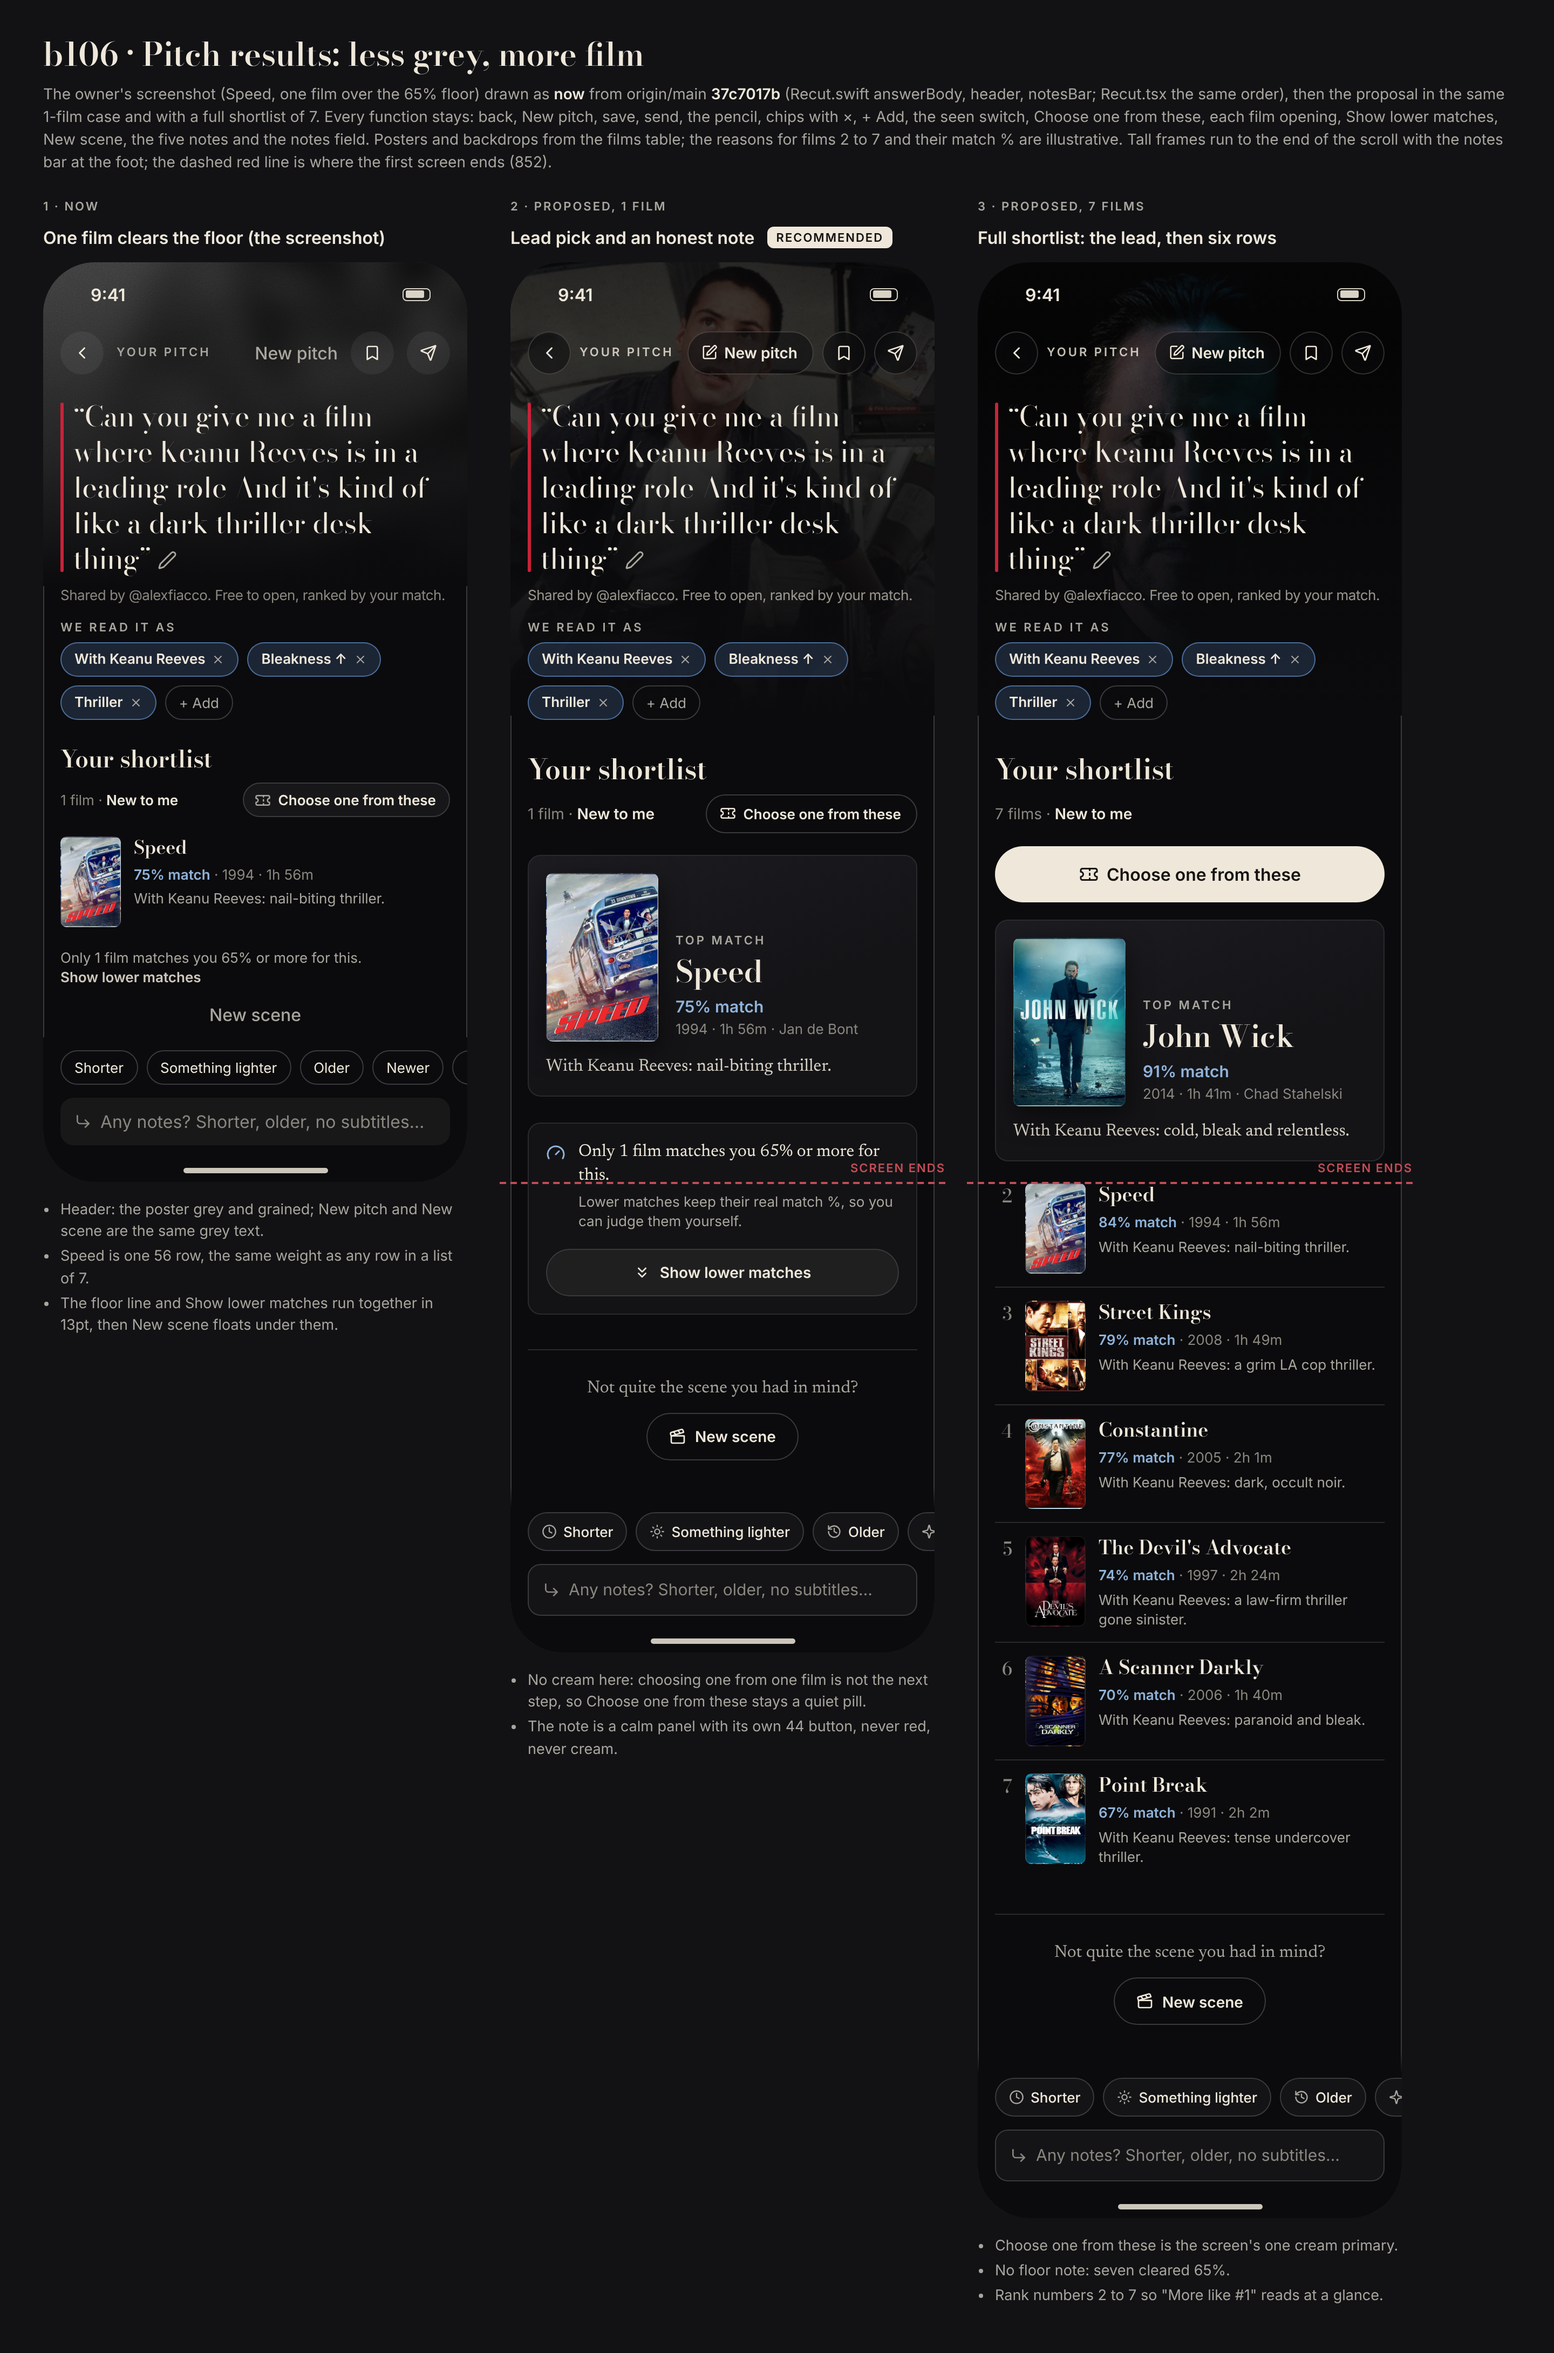
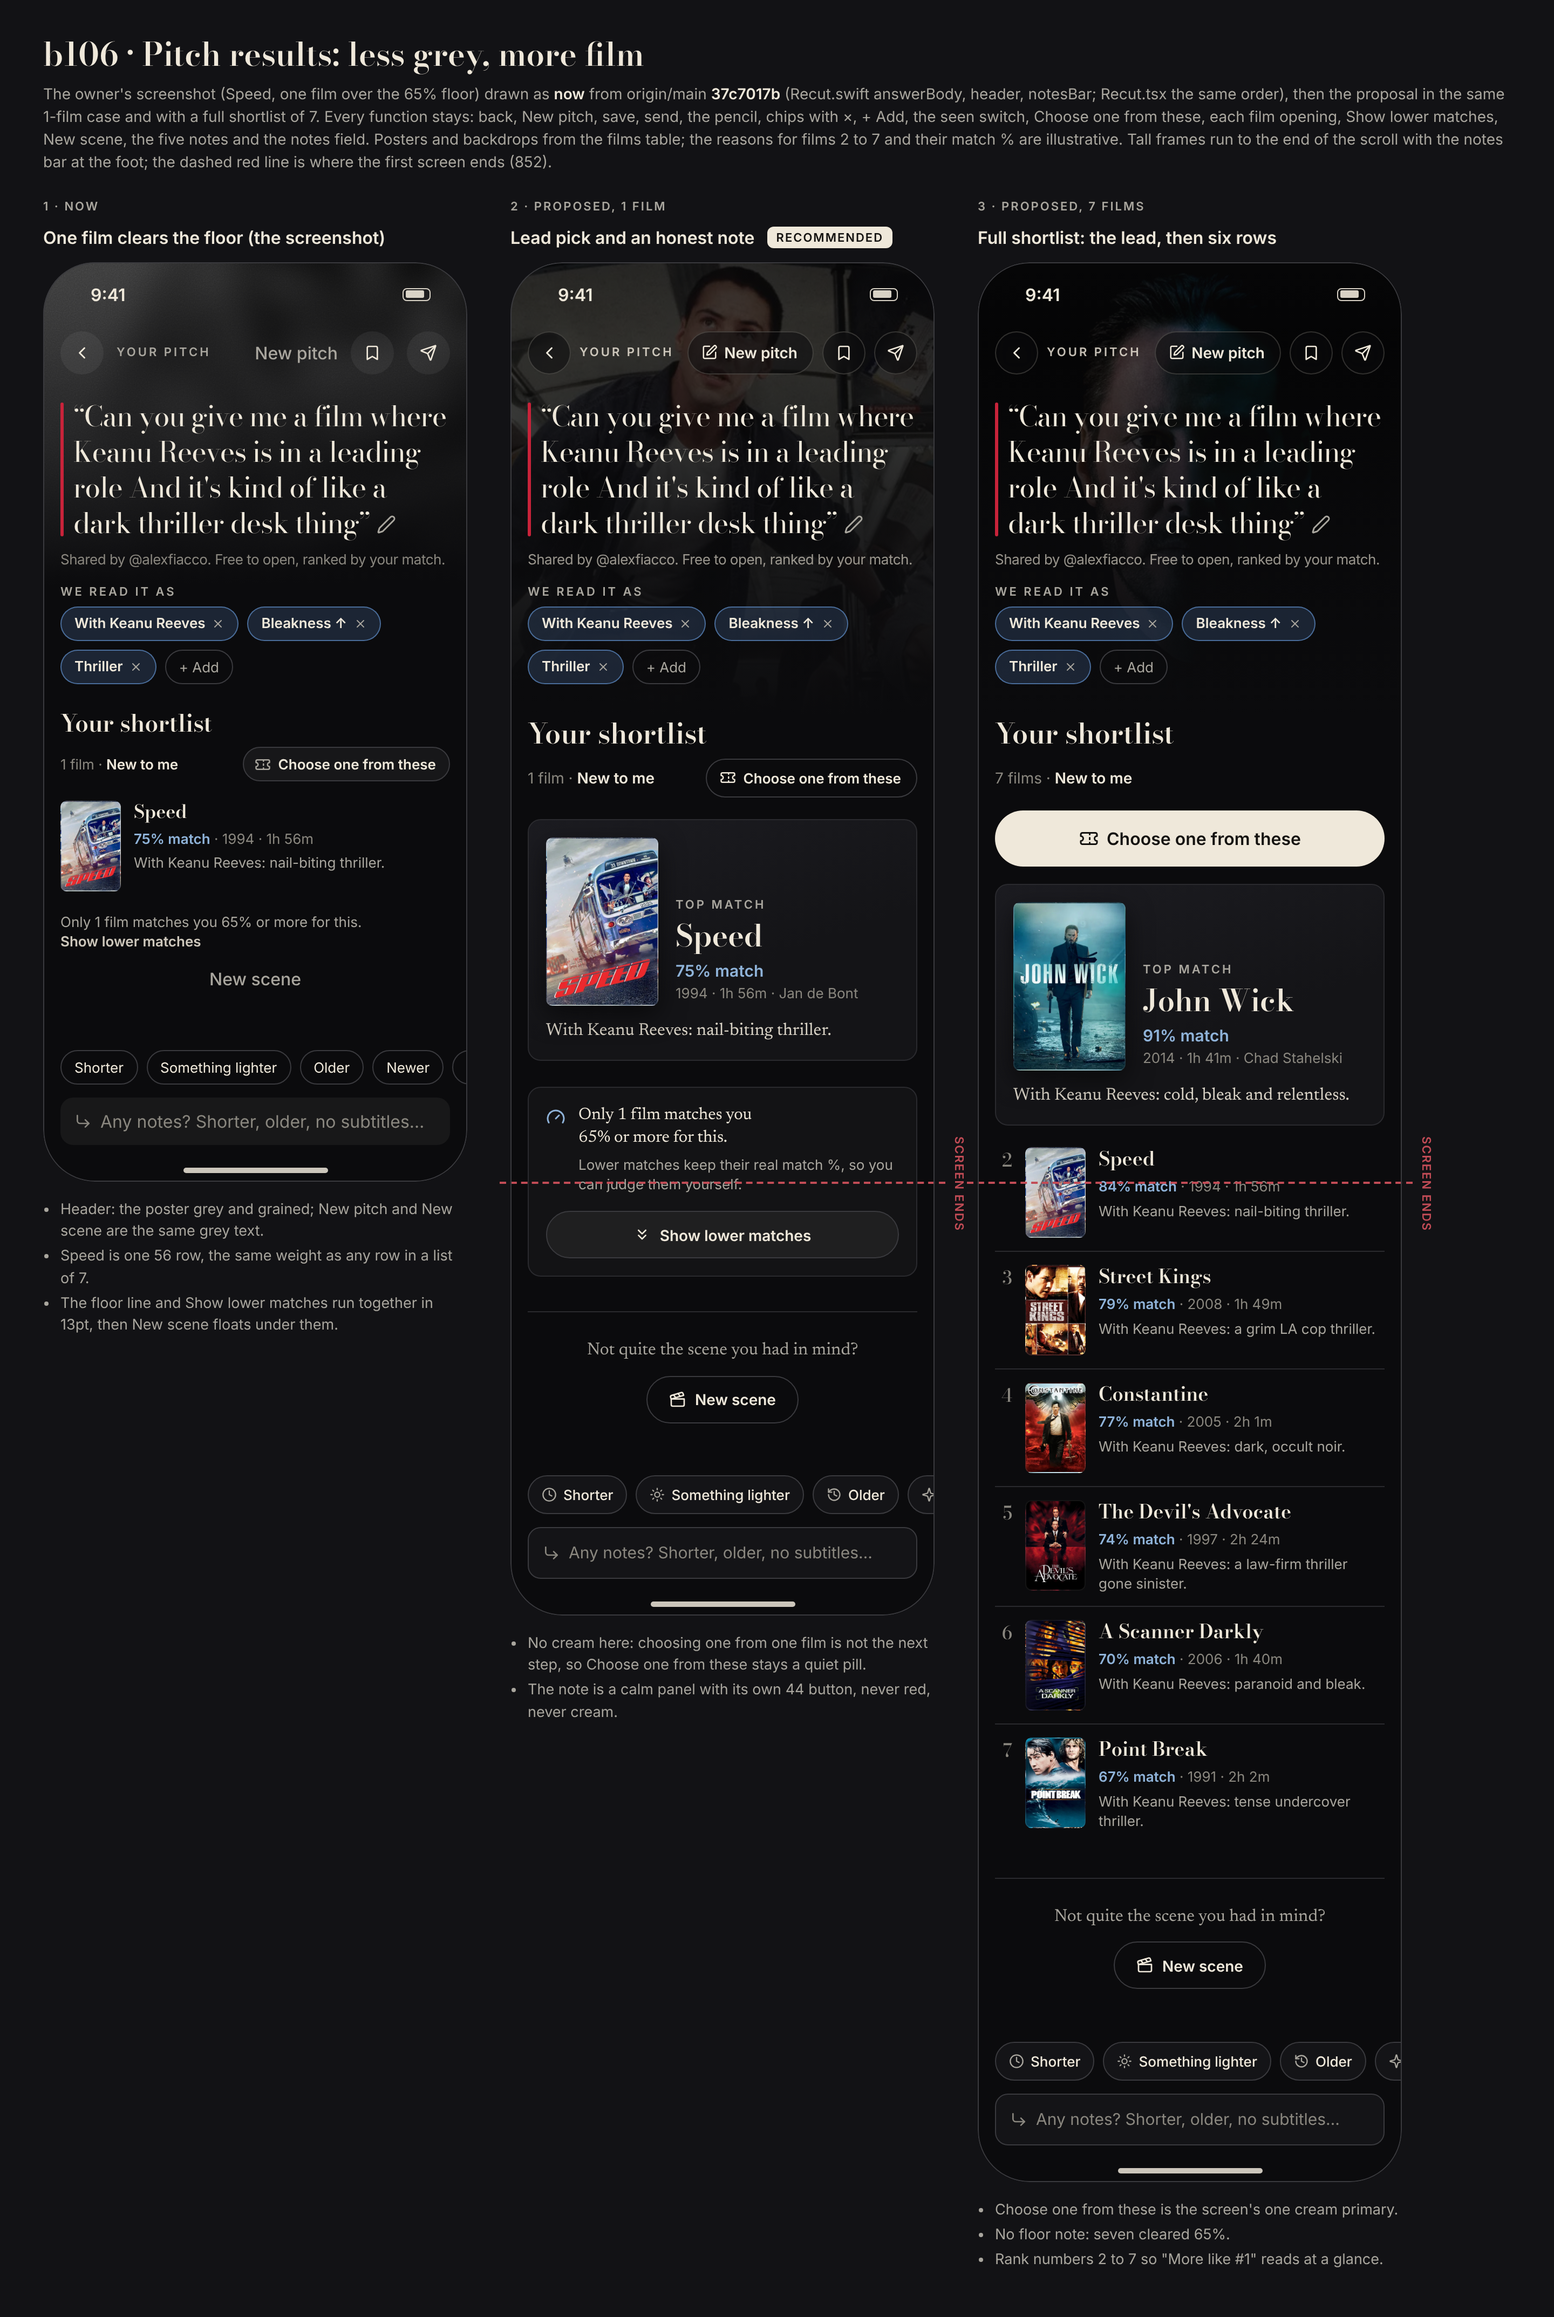
Work in progress: mocks
Claude-Session: https://claude.ai/code/session_013WRDCFXH8nihP92apJAVW7

diff --git a/mockups/journeys/b106-pitch.html b/mockups/journeys/b106-pitch.html
@@ -12,8 +12,9 @@
 .cols{gap:40px}
 .bs{max-width:1360px}
 .pw{position:relative}
-.fx{left:-10px;right:-10px}
-.ph{background:var(--bg)}
+.fx{left:-10px;right:-10px}.fx span{right:auto;left:100%;top:0;margin-left:6px;transform-origin:0 0;transform:rotate(90deg) translate(-50%,-100%);white-space:nowrap}
+.ph{background:var(--bg);outline:none}
+.ph:after{content:"";position:absolute;inset:0;border-radius:48px;border:1.5px solid var(--line2);z-index:60;pointer-events:none}
 .ph .sbar{background:transparent}
 .ph .pg{top:54px;padding:8px 16px 0}
 /* backdrops */
@@ -28,7 +29,7 @@
 .circ svg{stroke:var(--ink)}
 .quote{position:relative;padding-left:12px;margin-top:20px}
 .quote:before{content:"";position:absolute;left:0;top:4px;bottom:4px;width:3px;border-radius:2px;background:var(--red)}
-.quote .q{font:400 26px/33px var(--bod);font-variation-settings:"opsz" 96;color:var(--ink)}
+.quote .q{font:400 26px/33px var(--bod);font-variation-settings:"opsz" 40;letter-spacing:-.5px;color:var(--ink)}
 .quote .q svg{stroke:var(--muted);vertical-align:-1px;margin-left:6px}
 .shared{font:400 13px/1.4 var(--ui);letter-spacing:-.25px;color:var(--faint);margin-top:8px}
 .rd{margin-top:16px}
@@ -102,8 +103,8 @@
 .fl{margin-top:24px;padding:16px;border-radius:12px;background:rgba(239,232,218,.04);border:1px solid var(--line)}
 .fl .hd{display:flex;gap:12px;align-items:flex-start}
 .fl .hd svg{stroke:var(--accent2);flex:none;margin-top:2px}
-.fl .l1{font:400 16px/1.35 var(--news);color:var(--ink)}
-.fl .l2{font:400 13px/1.4 var(--ui);color:var(--muted);margin-top:4px}
+.fl .l1{text-wrap:balance;letter-spacing:-.1px;font:400 15.5px/1.35 var(--news);color:var(--ink)}
+.fl .l2{text-wrap:pretty;font:400 13px/1.4 var(--ui);color:var(--muted);margin-top:4px}
 .fl .btn{display:flex;align-items:center;justify-content:center;gap:8px;height:44px;border-radius:999px;border:1px solid var(--line2);background:var(--soft);font:600 14px var(--ui);color:var(--ink);margin-top:16px}
 .fl .btn svg{stroke:var(--ink)}
 /* the end of the list: New scene */
